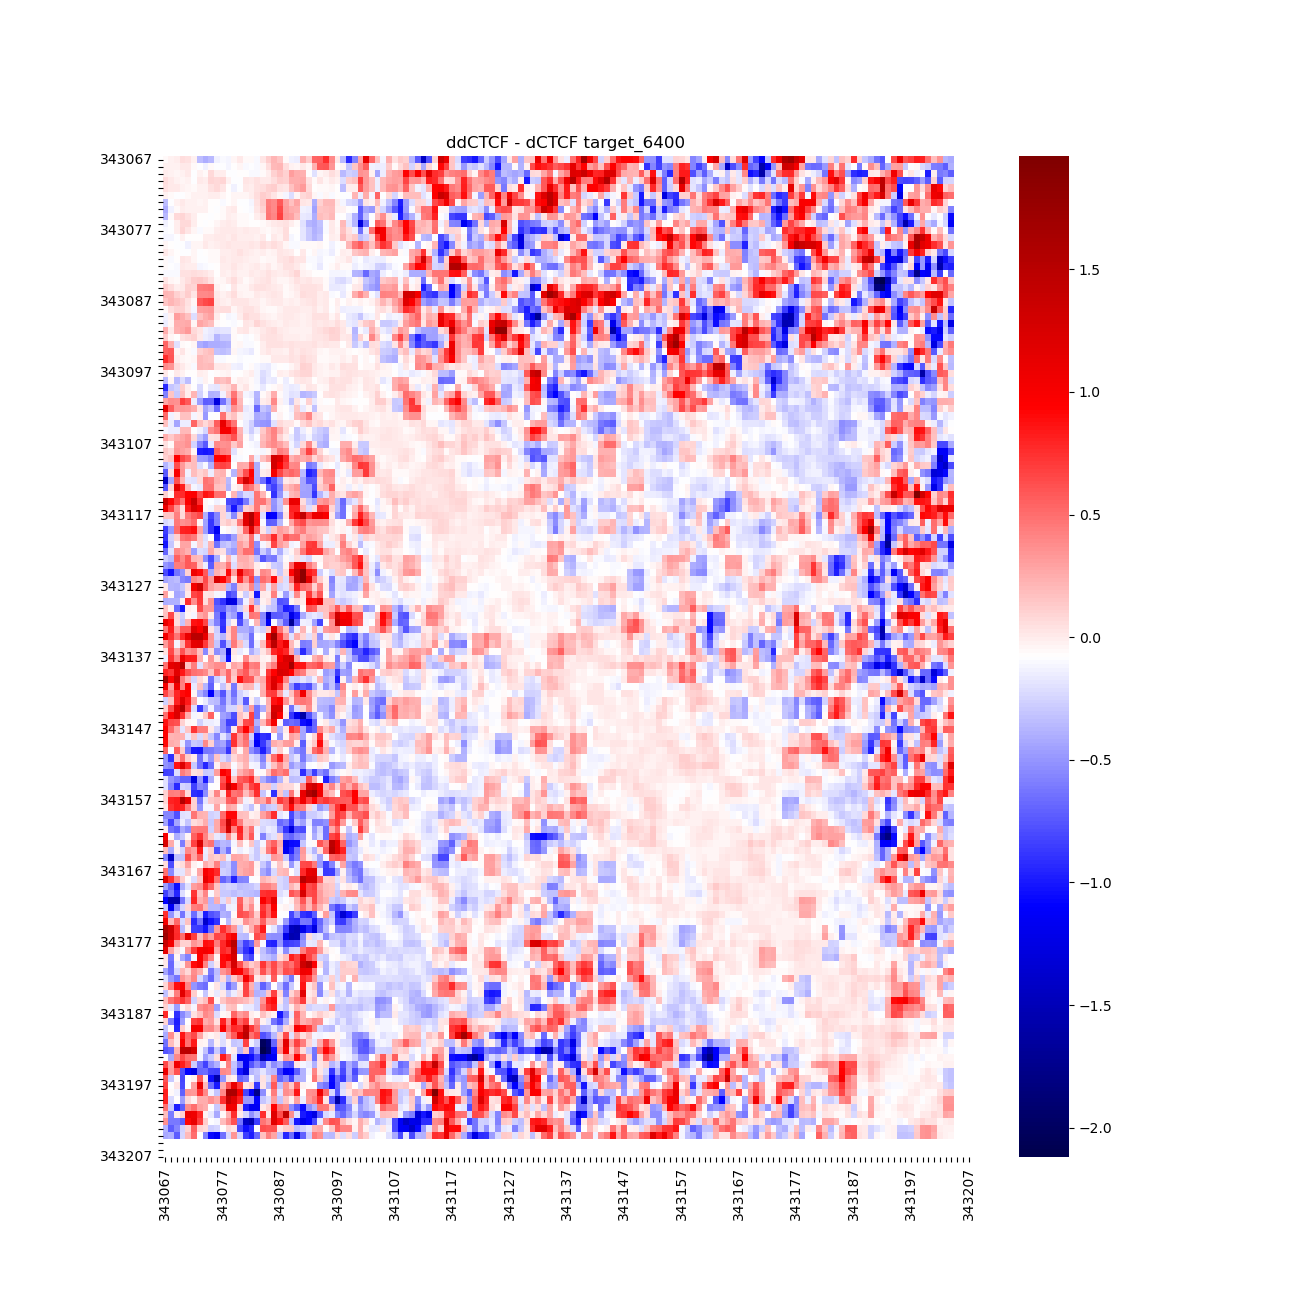
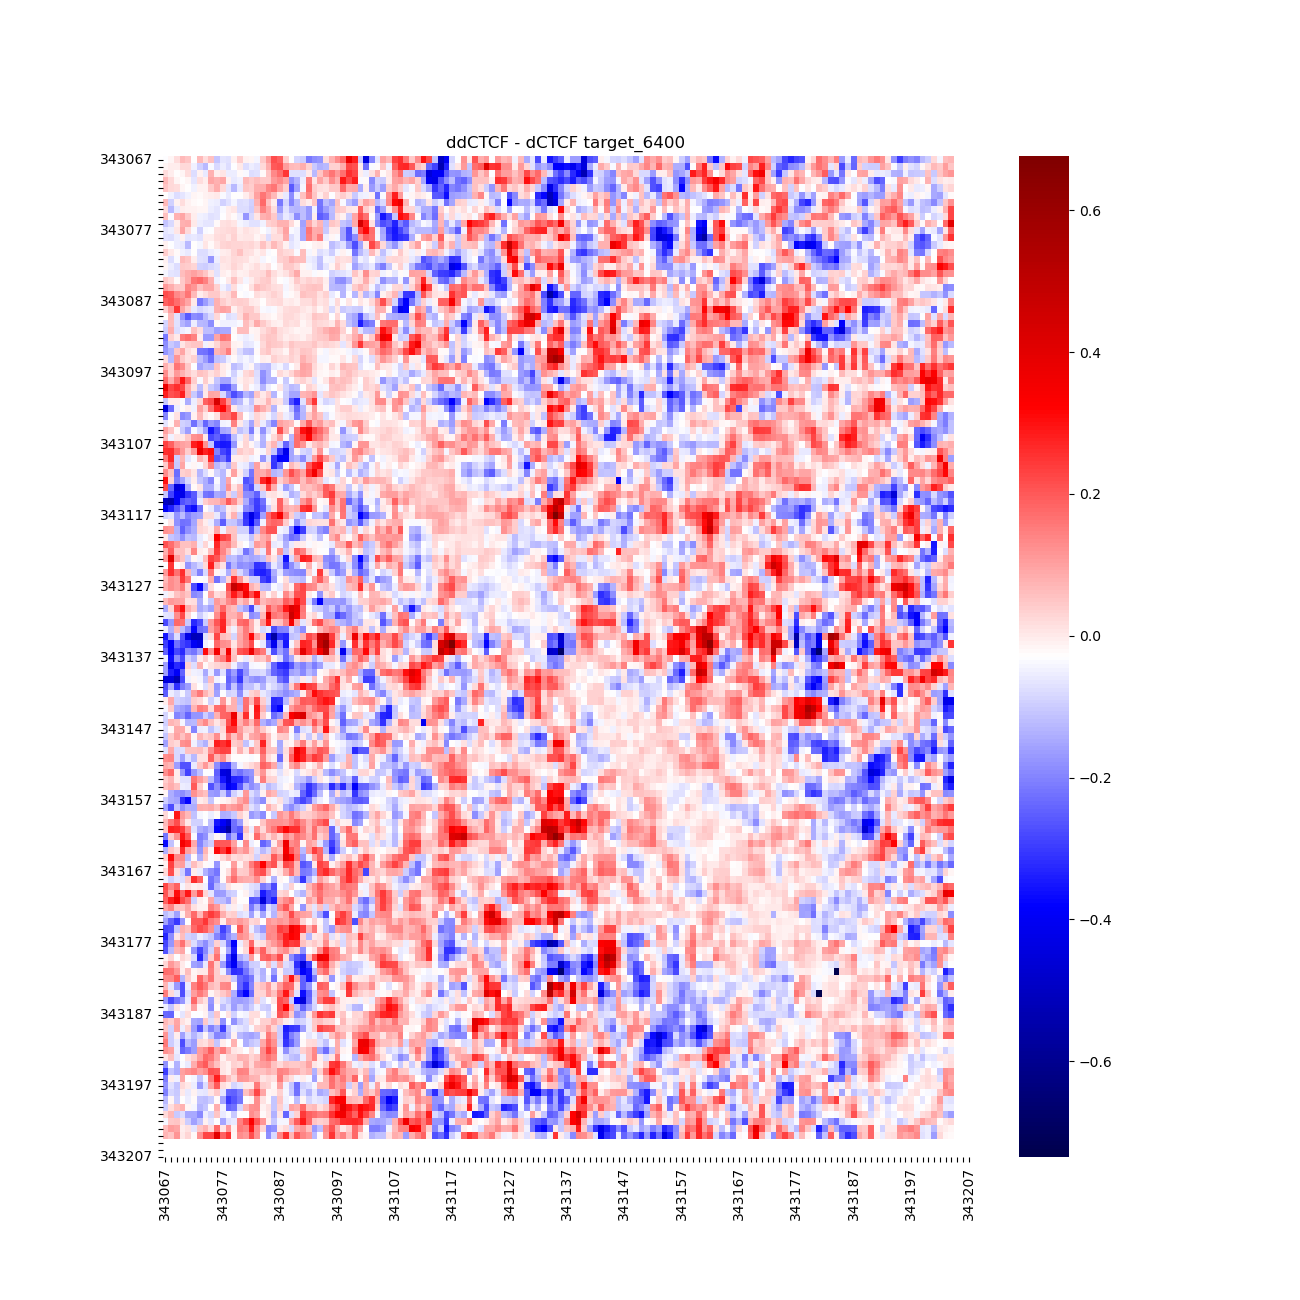
.

diff --git a/week6/homework6.py b/week6/homework6.py
@@ -1,0 +1,70 @@
+#%%
+import numpy
+import sys
+
+def remove_dd_bg(mat):
+    N = mat.shape[0]
+    mat2 = numpy.copy(mat)
+    for i in range(N):
+        bg = numpy.mean(mat[numpy.arange(i, N), numpy.arange(N - i)])
+        mat2[numpy.arange(i, N), numpy.arange(N - i)] -= bg
+        if i > 0:
+            mat2[numpy.arange(N - i), numpy.arange(i, N)] -= bg
+    return mat2
+
+def smooth_matrix(mat):
+    N = mat.shape[0]
+    invalid = numpy.where(mat[1:-1, 1:-1] == 0)
+    nmat = numpy.zeros((N - 2, N - 2), float)
+    for i in range(3):
+        for j in range(3):
+            nmat += mat[i:(N - 2 + i), j:(N - 2 + j)]
+    nmat /= 9
+    nmat[invalid] = 0
+    return nmat
+
+
+file = '/Users/cmdb/qbb2022-answers/week6-homework/analysis/hic_results/matrix/dCTCF/raw/6400/dCTCF_ontarget_6400.matrix'
+
+#mat columns: bin# first part of intr; bin# second part of intr; norm score of intr
+mat = numpy.genfromtxt(file)
+print(mat)
+#remove_dd_bg(mat)
+'''
+Produce a horizontal 3-panel plot with a heatmap for ddCTCF, dCTCF, and dCTCF - ddCTCF
+chr15:11170245-12070245
+
+You will want to input the sparse format that is provided as 
+results from HiCPro. The sparse format data you want should 
+come from the iced or normalized data folder. For the input bin 
+file, you can use either 6400bp bin file from the raw folder in 
+hic_results/matrix/XXXX.
+
+To create the plot, you will need to do the following:
+
+Filter out data with one or both interaction ends falling 
+outside the desired bin range
+
+Log-transform the scores (the dynamic range of data makes 
+it hard to visualize the non-transformed data).
+Also, shift the data by subtracting the minimum value so 
+the new minimum value is zero (this will prevent issues where 
+there is missing information)
+
+Convert the sparse data into a square matrix (note that the 
+sparse data only contains one entry per interaction with the 
+lower-numbered bin in the first column). By converting the 
+sparse matrix it into a complete matrix for plotting, you 
+have two entries per interaction. For one line of the sparse 
+data format, the data relates to the full matrix as follows:
+mat[sparse['F1'][i], sparse['F2'][i]] = sparse['score'][i]
+Plot the two matrices using the same maximum value 
+(set vmax in imshow). I suggest using the magma color map, 
+although you need to flip your scores to mimic the paper figure
+
+For the difference plot, I suggest using the seismic color map 
+and norm=colors.CenteredNorm. It helps to remove the distance 
+dependent signal and smooth the data first as there is noise. 
+You can use the following function to remove the distance dependent signal:
+'''
+# %%

diff --git a/week6/load_data.py b/week6/load_data.py
@@ -27,7 +27,7 @@ class ThreeSeq:
         self.trimmed_data = self.data[keep_ind_data]
         
         self.trimmed_data['score'] = numpy.log10(.001+self.trimmed_data['score'])
-        self.trimmed_data['score'] = self.trimmed_data['score'] - numpy.max(self.trimmed_data['score'])
+        self.trimmed_data['score'] = self.trimmed_data['score'] - numpy.min(self.trimmed_data['score'])
         self.square_matrix()
         self.remove_dd_bg()
         self.smooth_matrix()
